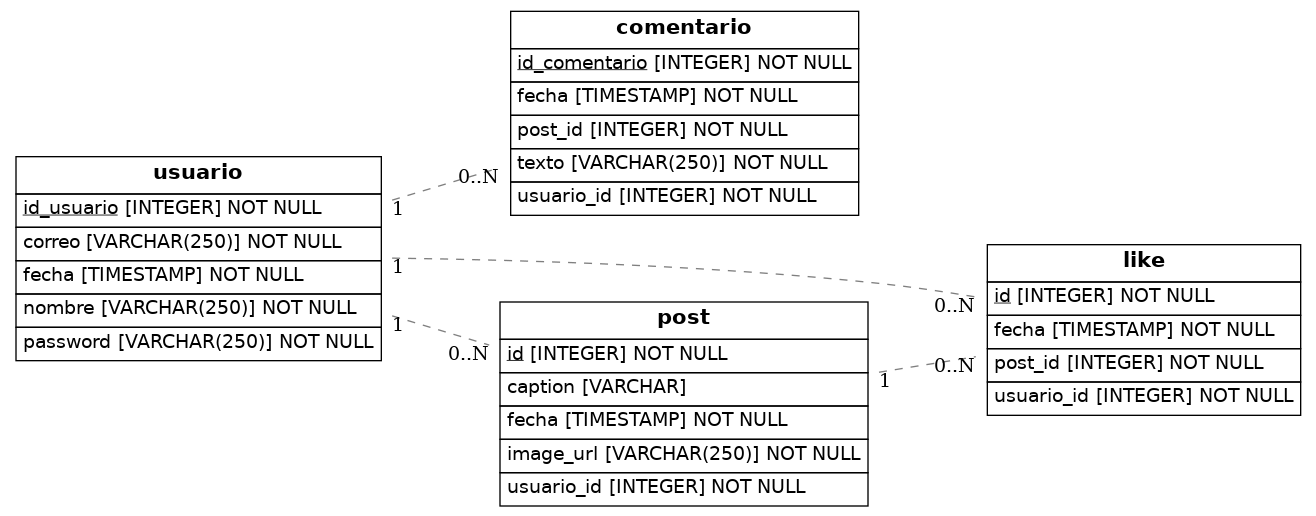
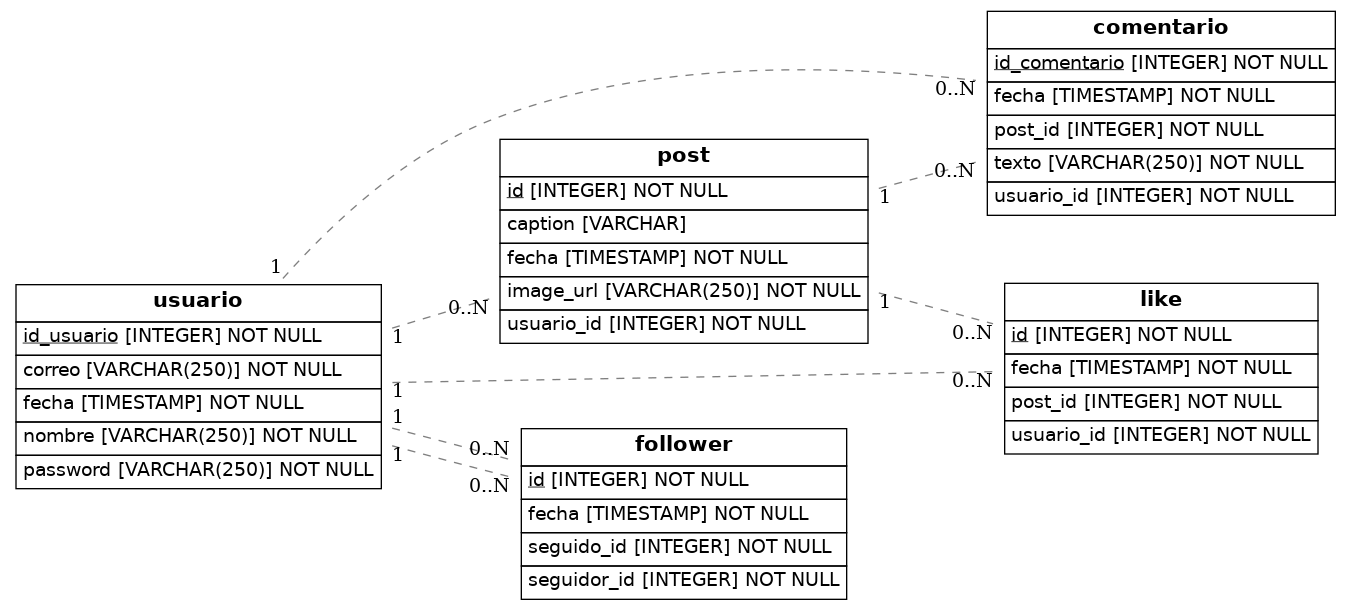
se agrego tabla folowers

diff --git a/src/models.py b/src/models.py
@@ -14,49 +14,58 @@ class Usuario(Base):
     nombre = Column(String(250), nullable=False)
     correo = Column(String(250), nullable=False)
     password = Column(String(250), nullable=False)
-    fecha = Column(TIMESTAMP, nullable = False)
+    fecha = Column(TIMESTAMP, nullable=False)
 
     posts = relationship('Post', backref='usuario', lazy=True)
     comentarios = relationship('Comentario', backref='usuario', lazy=True)
     likes = relationship('Like', backref='usuario', lazy=True)
-
+    following = relationship('Follower', foreign_keys='Follower.seguidor_id', backref='seguidor', lazy=True)
+    followers = relationship('Follower', foreign_keys='Follower.seguido_id', backref='seguido', lazy=True)
 
 class Comentario(Base):
     __tablename__ = 'comentario'
 
     id_comentario = Column(Integer, primary_key=True)
-    usuario_id = Column(Integer, ForeignKey('usuario.id'), nullable=False)
-    post_id = Column(Integer, ForeignKey('posts.id'), nullable=False)
+    usuario_id = Column(Integer, ForeignKey('usuario.id_usuario'), nullable=False)
+    post_id = Column(Integer, ForeignKey('post.id'), nullable=False)
     texto = Column(String(250), nullable=False)
-    fecha = Column(TIMESTAMP, nullable = False)
+    fecha = Column(TIMESTAMP, nullable=False)
 
 class Like(Base):
     __tablename__ = 'like'
-    
+
     id = Column(Integer, primary_key=True)
-    usuario_id = Column(Integer, ForeignKey('usuario.id'), nullable=False)
+    usuario_id = Column(Integer, ForeignKey('usuario.id_usuario'), nullable=False)
     post_id = Column(Integer, ForeignKey('post.id'), nullable=False)
-    fecha = Column(TIMESTAMP, nullable = False)
-    
+    fecha = Column(TIMESTAMP, nullable=False)
+
 class Post(Base):
     __tablename__ = 'post'
-    
+
     id = Column(Integer, primary_key=True)
-    usuario_id = Column(Integer, ForeignKey('usuario.id'), nullable=False)
+    usuario_id = Column(Integer, ForeignKey('usuario.id_usuario'), nullable=False)
     caption = Column(String)
     image_url = Column(String(250), nullable=False)
-    fecha = Column(TIMESTAMP, nullable = False)
-    
+    fecha = Column(TIMESTAMP, nullable=False)
+
     comentarios = relationship('Comentario', backref='post', lazy=True)
     likes = relationship('Like', backref='post', lazy=True)
 
     def to_dict(self):
         return {}
 
+class Follower(Base):
+    __tablename__ = 'follower'
+
+    id = Column(Integer, primary_key=True)
+    seguidor_id = Column(Integer, ForeignKey('usuario.id_usuario'), nullable=False)
+    seguido_id = Column(Integer, ForeignKey('usuario.id_usuario'), nullable=False)
+    fecha = Column(TIMESTAMP, nullable=False)
+
 ## Draw from SQLAlchemy base
 try:
     result = render_er(Base, 'diagram.png')
     print("Success! Check the diagram.png file")
 except Exception as e:
-    print("There was a problem genering the diagram")
+    print("There was a problem generating the diagram")
     raise e
